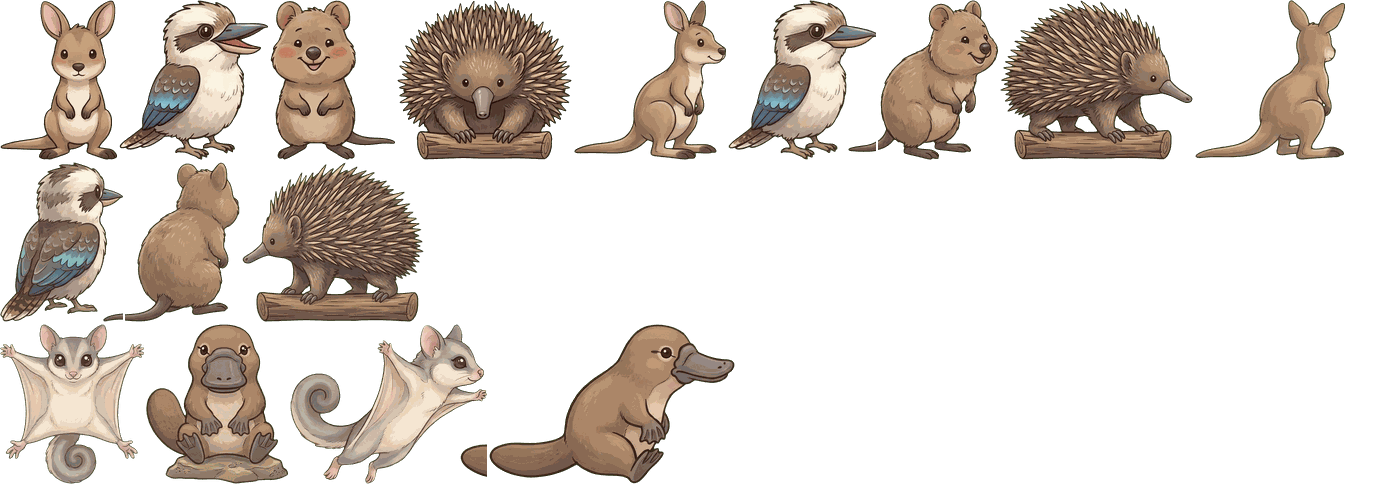
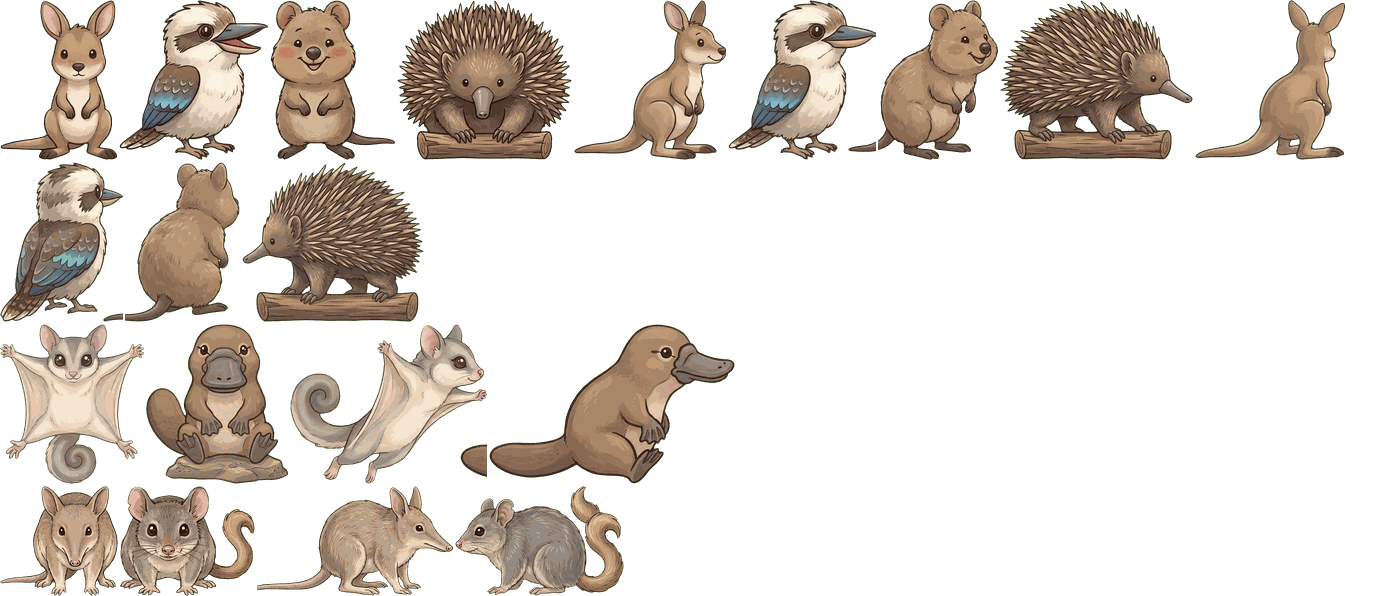
Île aux Koalas : le bandicoot et la souris marsupiale guéris se promènent aussi
Claude-Session: https://claude.ai/code/session_014bi368SbjZ4sCSmbjCzFcj

diff --git a/game.js b/game.js
@@ -3312,7 +3312,7 @@ function vetDraw() {
 }
 const vetOvOpen = () => $('#vetOv').style.display === 'grid', remOvOpen = () => $('#remOv').style.display === 'grid';
 const kobOvOpen = () => kobBkOpen() || vetOvOpen() || remOvOpen() || mgOvOpen() || wmOpen() || (typeof careOn === 'function' && careOn());
-const KWALK = {"wallaby_f": [0, 0, 117, 160], "kookaburra_f": [119, 0, 149, 160], "quokka_f": [270, 0, 125, 160], "echidne_f": [397, 0, 175, 160], "wallaby_s": [574, 0, 152, 160], "kookaburra_s": [728, 0, 148, 160], "quokka_s": [878, 0, 120, 160], "echidne_s": [1000, 0, 193, 160], "wallaby_u": [1195, 0, 150, 160], "kookaburra_u": [0, 162, 123, 160], "quokka_u": [125, 162, 115, 160], "echidne_u": [242, 162, 182, 160], "phalanger_f": [0, 324, 144, 160], "ornitho_f": [146, 324, 142, 160], "phalanger_s": [290, 324, 197, 160], "ornitho_s": [489, 324, 246, 160]}, KWI = new Image(); KWI.src = 'assets/kob_walk.png?v=47';
+const KWALK = {"wallaby_f": [0, 0, 117, 160], "kookaburra_f": [119, 0, 149, 160], "quokka_f": [270, 0, 125, 160], "echidne_f": [397, 0, 175, 160], "wallaby_s": [574, 0, 152, 160], "kookaburra_s": [728, 0, 148, 160], "quokka_s": [878, 0, 120, 160], "echidne_s": [1000, 0, 193, 160], "wallaby_u": [1195, 0, 150, 160], "kookaburra_u": [0, 162, 123, 160], "quokka_u": [125, 162, 115, 160], "echidne_u": [242, 162, 182, 160], "phalanger_f": [0, 324, 144, 160], "ornitho_f": [146, 324, 142, 160], "phalanger_s": [290, 324, 197, 160], "ornitho_s": [489, 324, 246, 160], "bandicoot_f": [0, 486, 118, 110], "souris_f": [120, 486, 135, 110], "bandicoot_s": [257, 486, 196, 110], "souris_s": [455, 486, 169, 110]}, KWI = new Image(); KWI.src = 'assets/kob_walk.png?v=48';
 function kobWander(v, p) {   // va-et-vient tranquille : pause de face, marche de profil, demi-tour
   const u = (time * .22 + (v.k.length * .37)) % 4, D = 24, ph = Math.floor(u), f = u - ph, hopK = v.k === 'wallaby' || v.k === 'quokka';
   if (ph === 0) return { m: KWALK[v.k + '_f'], dx: 0, fl: false, hop: 0 };

diff --git a/index.html b/index.html
@@ -1137,12 +1137,12 @@
 <script src="packs.js"></script>
 <script src="data.js"></script>
 <script src="grass.js"></script>
-<script src="npcs.js?v=47"></script>
+<script src="npcs.js?v=48"></script>
 <script src="myah.js"></script>
 <script src="mymask.js"></script>
 <script src="sprites.js"></script>
 <script src="art.js"></script>
-<script src="game.js?v=47"></script>
+<script src="game.js?v=48"></script>
 </body>
 </html>
 
